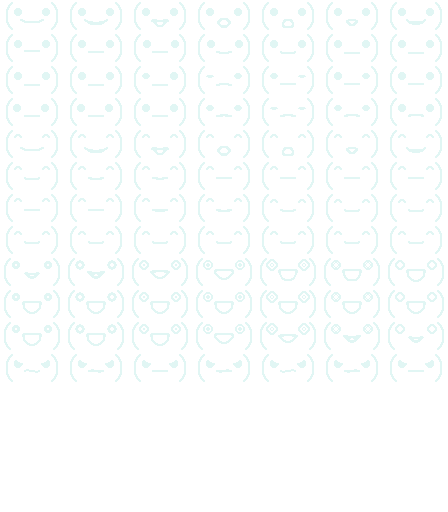
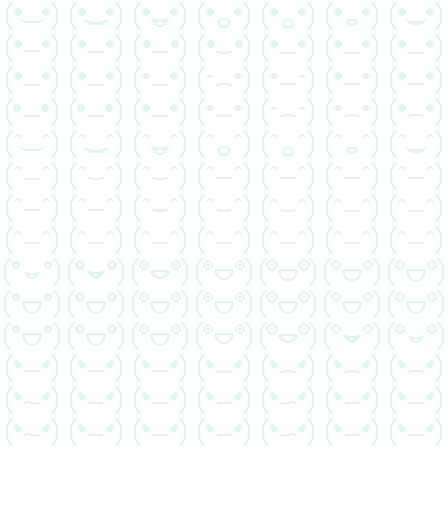
renamed sounds, added phase 4

diff --git a/SentIO/SentIO/Console/Script.cs b/SentIO/SentIO/Console/Script.cs
@@ -48,6 +48,7 @@ namespace SentIO.Console
             {
                 default: MainGame.Instance.StartCoroutine(Phase2()); break;
                 case 3: MainGame.Instance.StartCoroutine(Phase3()); break;
+                case 4: MainGame.Instance.StartCoroutine(Phase4()); break;
             }
         }
 
@@ -150,6 +151,7 @@ namespace SentIO.Console
         #region phase 2
         IEnumerator Phase2()
         {
+            SoundControl.IsEnabled = false;
             Face.Instance.IsVisible = false;
             if (SaveData.Instance.ExeName == "SentIO")
             {
@@ -344,6 +346,8 @@ namespace SentIO.Console
 
         IEnumerator Phase3()
         {
+            SoundControl.IsEnabled = true;
+
             Neutral(); VerySlow();
             yield return Talk("Uhm...");
             yield return Wait(60);
@@ -368,7 +372,7 @@ namespace SentIO.Console
                 Neutral();
                 yield return Talk("Sorry, I don't understand.");
                 yield return Wait(60);
-                yield return Talk("Can you tell me your name?");
+                yield return Talk("Please tell me your name.");
                 yield return Input();
                 playerName = TextControl.Instance.InputResult;
             }
@@ -379,8 +383,26 @@ namespace SentIO.Console
             yield return Key();
             yield return Talk("I once knew a person\nwith a very similar name.");
             Neutral(); Slow();
-            yield return Talk("I wonder\nwhat happened\nto them..");
+            yield return Talk("...I think...");
             yield return Key();
+
+            SaveData.Instance["phase"] = "4";
+            MainGame.Instance.StartCoroutine(Phase4());
+        }
+
+        IEnumerator Phase4()
+        {
+            while (true)
+            {
+                yield return Talk($"Hello Dude!");
+                Happy();
+                yield return Key();
+                Face.Instance.CurrentMood = Face.Emotion.Angry;
+                yield return Face.Instance.WaitForAnimationEnd();
+                Neutral();
+                yield return Talk($"Bla bla bla.");
+                yield return Key();
+            }
         }
 
         IEnumerator UnusedStuff()

diff --git a/SentIO/SentIO/UI/Face.cs b/SentIO/SentIO/UI/Face.cs
@@ -55,12 +55,12 @@ namespace SentIO.UI
         {
             moods = new Dictionary<Emotion, Animation>();
 
-            moods.Add(Emotion.TalkNeutral, new Animation(Resources.FaceTexture, 0 * 7,  7,  .25, true));
-            moods.Add(Emotion.IdleNeutral, new Animation(Resources.FaceTexture, 1 * 7, 21,  .16, true));
-            moods.Add(Emotion.TalkHappy, new Animation(Resources.FaceTexture,   4 * 7,  7,  .25, true));
-            moods.Add(Emotion.IdleHappy, new Animation(Resources.FaceTexture,   5 * 7, 21,  .16, true));
+            moods.Add(Emotion.TalkNeutral, new Animation(Resources.FaceTexture, 0 * 7,  7, .25, true));
+            moods.Add(Emotion.IdleNeutral, new Animation(Resources.FaceTexture, 1 * 7, 21, .16, true));
+            moods.Add(Emotion.TalkHappy, new Animation(Resources.FaceTexture,   4 * 7,  7, .25, true));
+            moods.Add(Emotion.IdleHappy, new Animation(Resources.FaceTexture,   5 * 7, 21, .16, true));
             moods.Add(Emotion.Excited, new Animation(Resources.FaceTexture,     8 * 7, 21,  .2, false));
-            moods.Add(Emotion.Angry, new Animation(Resources.FaceTexture,      11 * 7,  7, .16, false));
+            moods.Add(Emotion.Angry, new Animation(Resources.FaceTexture,      11 * 7, 21, .16, false));
 
             CurrentMood = Emotion.IdleNeutral;
         }

diff --git a/SentIO/SentIO/Globals/SoundControl.cs b/SentIO/SentIO/Globals/SoundControl.cs
@@ -5,8 +5,10 @@ using System.Text;
 
 namespace SentIO.Globals
 {
-    public static class SoundManager
+    public static class SoundControl
     {
+        public static bool IsEnabled { get; set; } = true;
+
         public static float SoundVolume { get; set; } = 1.0f;
 
         private static Dictionary<string, SoundEffectInstance> soundInst = new Dictionary<string, SoundEffectInstance>();
@@ -29,6 +31,9 @@ namespace SentIO.Globals
 
         public static void Play(SoundEffect sound, double pitch = 0, double pan = 0, bool skipPlaying = false, bool isLooped = false)
         {
+            if (!IsEnabled)
+                return;
+
             if (!soundInst.ContainsKey(sound.Name))
             {
                 soundInst.Add(sound.Name, sound.CreateInstance());

diff --git a/SentIO/SentIO/Console/TextControl.cs b/SentIO/SentIO/Console/TextControl.cs
@@ -224,12 +224,12 @@ namespace SentIO.Console
                     {
                         if (index == textOutput.Length - 1)
                         {
-                            SoundManager.Stop(Resources.SfxChar);
-                            SoundManager.Play(Resources.SfxCharStop);
+                            SoundControl.Stop(Resources.SfxChar);
+                            SoundControl.Play(Resources.SfxCharStop);
                         }
                         else if (textOutput[index] != ' ')
                         {
-                            SoundManager.Play(Resources.SfxChar);
+                            SoundControl.Play(Resources.SfxChar);
                         }
                         index++;
                     }

diff --git a/SentIO/SentIO/SaveData.cs b/SentIO/SentIO/SaveData.cs
@@ -14,7 +14,7 @@ namespace SentIO
         private Dictionary<string, string> data;
 
         public string ExeDirectory => Path.GetDirectoryName(System.Reflection.Assembly.GetEntryAssembly().Location);
-        public string ExeName => System.Diagnostics.Process.GetCurrentProcess().ProcessName;
+        public string ExeName => System.Diagnostics.Process.GetCurrentProcess().ProcessName;        
         public string ExePath => Path.Join(ExeDirectory, ExeName) + ".exe";
 
         SaveData()
